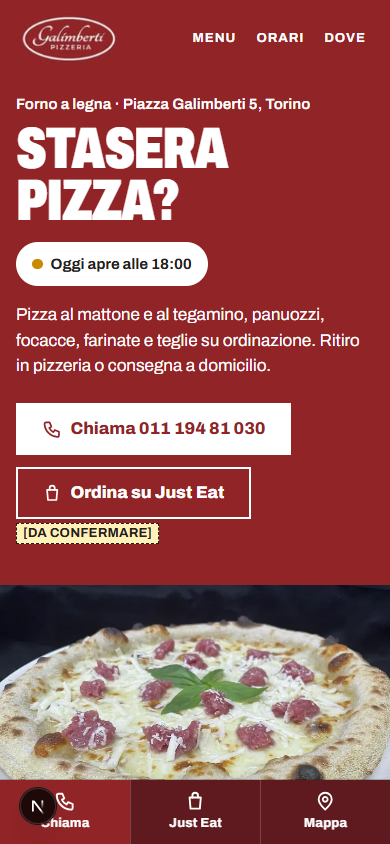
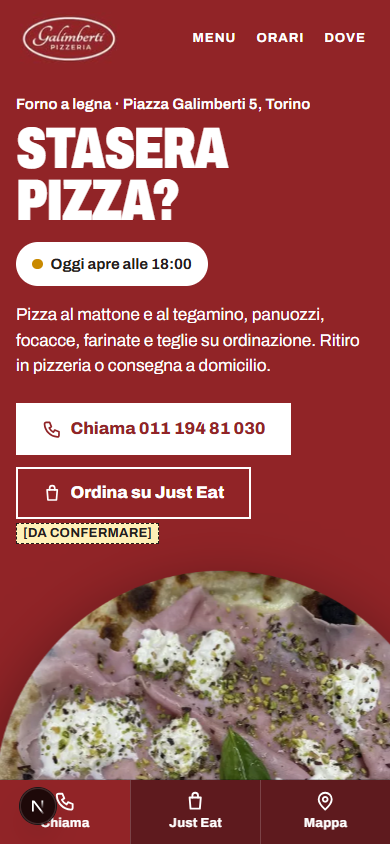
Effetto 'la pizza che gira' in apertura
La pizza vista dall'alto (pizza2.png ritagliata in cerchio) entra con mezzo
giro e ruota scorrendo. Rispetta prefers-reduced-motion. La foto del
cornicione passa alla scheda 'Le speciali'.

Changed region(s): [[0.0, 0.6777, 1.0, 0.9242]]

diff --git a/app/globals.css b/app/globals.css
@@ -335,14 +335,35 @@ a {
   gap: var(--s-1);
 }
 
-.foto-apertura {
-  margin-inline: calc(var(--gutter) * -1);
+/* La pizza che gira (components/pizza-che-gira.tsx). Da telefono spunta dal
+   fondo dell'apertura, tagliata dal bordo; da tablet sta a destra, fuori dal bordo. */
+.apertura {
+  overflow: hidden;
 }
-.foto-apertura img {
+.pizza-giro {
+  position: relative;
+  height: min(78vw, 24rem);
+  margin-inline: calc(var(--gutter) * -1);
+  margin-bottom: calc(var(--s-6) * -1);
+}
+.pizza-giro-disco {
+  position: absolute;
+  left: 50%;
+  top: 0;
+  width: min(118vw, 36rem);
+  translate: -44% 0;
+  animation: pizza-entra 1.3s cubic-bezier(0.2, 0.8, 0.2, 1) both;
+}
+.pizza-giro img {
   width: 100%;
-  aspect-ratio: 4 / 3;
-  object-fit: cover;
-  object-position: 50% 60%;
+  border-radius: 50%;
+  filter: drop-shadow(0 1.25rem 2rem rgba(0, 0, 0, 0.45));
+  will-change: transform;
+}
+@keyframes pizza-entra {
+  from {
+    transform: rotate(-160deg) scale(0.85);
+  }
 }
 
 /* --- Cosa facciamo ------------------------------------------------------ */
@@ -727,13 +748,17 @@ a {
 
   .apertura-griglia {
     grid-template-columns: 1.1fr 0.9fr;
-    align-items: end;
+    align-items: stretch;
   }
-  .foto-apertura {
+  .pizza-giro {
+    height: 100%;
+    min-height: 26rem;
     margin: 0;
   }
-  .foto-apertura img {
-    aspect-ratio: 4 / 5;
+  .pizza-giro-disco {
+    top: 50%;
+    width: min(42vw, 31rem);
+    translate: -40% -50%;
   }
 
   /* Il blocco del volantino al centro, come il pannello rosso di menu2.png. */
@@ -775,9 +800,6 @@ a {
   }
   .apertura {
     padding-bottom: var(--s-7);
-  }
-  .foto-apertura img {
-    max-height: 34rem;
   }
   .colonne-menu {
     columns: 3;

diff --git a/app/page.tsx b/app/page.tsx
@@ -1,6 +1,7 @@
 import { DaConfermare } from "@/components/da-confermare";
 import { IconaPosizione, IconaSacchetto, IconaTelefono } from "@/components/icone";
 import PastaCheSiStende from "@/components/pasta-che-si-stende";
+import PizzaCheGira from "@/components/pizza-che-gira";
 import SchedeMenu from "@/components/schede-menu";
 import StatoApertura from "@/components/stato-apertura";
 import {
@@ -122,15 +123,12 @@ export default async function Home() {
                 </span>
               </div>
             </div>
-            <figure className="foto-apertura">
-              <img
-                src={FOTO.cornicione.src}
-                width={FOTO.cornicione.w}
-                height={FOTO.cornicione.h}
-                alt={FOTO.cornicione.alt}
-                fetchPriority="high"
-              />
-            </figure>
+            <PizzaCheGira
+              src={FOTO.dallalto.src}
+              w={FOTO.dallalto.w}
+              h={FOTO.dallalto.h}
+              alt={FOTO.dallalto.alt}
+            />
           </div>
         </section>
 
@@ -204,10 +202,10 @@ export default async function Home() {
 
               <article className="scheda">
                 <img
-                  src={FOTO.mortadella.src}
-                  width={FOTO.mortadella.w}
-                  height={FOTO.mortadella.h}
-                  alt={FOTO.mortadella.alt}
+                  src={FOTO.cornicione.src}
+                  width={FOTO.cornicione.w}
+                  height={FOTO.cornicione.h}
+                  alt={FOTO.cornicione.alt}
                   loading="lazy"
                   decoding="async"
                 />

diff --git a/components/pizza-che-gira.tsx b/components/pizza-che-gira.tsx
@@ -1,0 +1,62 @@
+"use client";
+
+import { useEffect, useRef } from "react";
+
+/**
+ * "La pizza che gira": la pizza vista dall'alto (pizza2.png, ritagliata in
+ * cerchio) entra con mezzo giro e poi ruota mentre si scorre, come sulla
+ * pala davanti al forno.
+ *
+ * Con "riduci movimento" sta ferma. Senza JavaScript sta ferma e basta.
+ */
+
+/** Gradi di rotazione per ogni pixel scorso. */
+const GRADI_PER_PIXEL = 0.12;
+
+export default function PizzaCheGira({
+  src,
+  w,
+  h,
+  alt,
+}: {
+  src: string;
+  w: number;
+  h: number;
+  alt: string;
+}) {
+  const immagine = useRef<HTMLImageElement>(null);
+
+  useEffect(() => {
+    const img = immagine.current;
+    if (!img) return;
+    const fermo = window.matchMedia("(prefers-reduced-motion: reduce)");
+
+    let frame = 0;
+    const ruota = () => {
+      img.style.transform = fermo.matches
+        ? ""
+        : `rotate(${(window.scrollY * GRADI_PER_PIXEL).toFixed(2)}deg)`;
+    };
+    const alloScorrere = () => {
+      cancelAnimationFrame(frame);
+      frame = requestAnimationFrame(ruota);
+    };
+
+    ruota();
+    window.addEventListener("scroll", alloScorrere, { passive: true });
+    fermo.addEventListener("change", ruota);
+    return () => {
+      cancelAnimationFrame(frame);
+      window.removeEventListener("scroll", alloScorrere);
+      fermo.removeEventListener("change", ruota);
+    };
+  }, []);
+
+  return (
+    <div className="pizza-giro">
+      <div className="pizza-giro-disco">
+        <img ref={immagine} src={src} width={w} height={h} alt={alt} fetchPriority="high" />
+      </div>
+    </div>
+  );
+}

diff --git a/lib/sito.ts b/lib/sito.ts
@@ -74,6 +74,13 @@ export const FOTO = {
     h: 767,
     alt: "Pizza con mortadella, burrata e granella di pistacchio nel cartone da asporto",
   },
+  // pizza2.png ritagliata in cerchio (la pizza vista dall'alto), per l'apertura.
+  dallalto: {
+    src: "/img/pizza-dallalto.webp",
+    w: 680,
+    h: 680,
+    alt: "Pizza vista dall'alto con mortadella, burrata e granella di pistacchio",
+  },
   tegamino: {
     src: "/img/tegamino.webp",
     w: 676,

diff --git a/docs/VERIFICA.md b/docs/VERIFICA.md
@@ -29,7 +29,7 @@ piccolo (134 px di larghezza originale).
 | Instagram | 390 | Link di testo alto meno di 44 px | Difficile da toccare | Corretto |
 | Testo "Le speciali" | tutte | "12 pizze fuori dal solito" | Frase da brochure | Ora: "12 pizze speciali, per esempio: …" |
 | Pagina 404 | tutte | Testo di Next in inglese | Fuori lingua | Corretto |
-| Prima schermata | 768 | La foto della pizza è piccola e ritagliata in verticale, il cornicione si perde | Estetica, non uso | **Non corretto**, da rivedere con foto migliori |
+| Prima schermata | 768 | La foto della pizza è piccola e ritagliata in verticale, il cornicione si perde | Estetica, non uso | Superato: ora c'è "la pizza che gira" |
 | Elenco del volantino | 1280 | Colonna stretta a sinistra, due terzi vuoti a destra | Spazio sprecato | Corretto il 28/10 con l'effetto "pasta che si stende": blocco giustificato centrato |
 | Logo | tutte | Il file è 134×68 px: a 2x (telefoni) è sfocato | Prima cosa che si vede | **Non correggibile** senza il file originale: va chiesto al locale |
 | Bibite | 390 | Cinque [DA CONFERMARE] di fila rendono la lista pesante | Ma sono dubbi veri sul volantino | Lasciato: si tolgono quando il titolare conferma |
@@ -71,3 +71,12 @@ a fine corsa ogni riga misura quanto il contenitore (356-357 px su 358 a 390 px)
 scorrimento orizzontale, nessun errore in console. Con "riduci movimento" le righe sono subito
 stese, senza animazione. Senza JavaScript resta l'elenco statico di prima. Costo: nessuna
 immagine né libreria, solo l'asse di larghezza del font già caricato.
+
+## Effetto "la pizza che gira" (aggiunto su richiesta dell'utente)
+In apertura, la pizza vista dall'alto (`pizza2.png`, ritagliata in cerchio, WebP con
+trasparenza, 79 KB) entra con mezzo giro e poi ruota mentre si scorre (0,12° per pixel). Da
+telefono spunta dal fondo dell'apertura, tagliata dal bordo; da 768 px sta a destra. Provato
+con Playwright a 390, 768 e 1280 px (`strumenti/prova-giro.js`): nessuno scorrimento
+orizzontale, nessun errore; con "riduci movimento" niente entrata e niente rotazione.
+Limite vero: la foto originale è 683 px, quindi sui telefoni ad alta densità la pizza è un po'
+morbida. Con una foto dall'alto più grande (almeno 1600 px) l'effetto rende molto di più.

diff --git a/DECISIONI.md b/DECISIONI.md
@@ -120,3 +120,11 @@ impaginazione), parla di pasta e forno senza illustrazioni inventate, funziona a
 (non dipende dall'apertura) e pesa zero (asse di larghezza del font Archivo, già caricato).
 Scartata un'insegna al neon "APERTO" che si accende alle 18: d'effetto, ma in una demo fatta di
 giorno si vedrebbe spenta, e il neon non è nell'identità del locale.
+
+## 7. Secondo effetto: "la pizza che gira" (richiesta dell'utente, 28/10/2026)
+L'utente voleva anche un effetto con un'immagine. Su un sito di cibo la gente guarda il cibo:
+l'effetto deve muovere la pizza vera, non decorazioni. `pizza2.png` è l'unica pizza intera
+vista dall'alto, quindi ritagliata in cerchio sta in piedi da sola sul rosso e può ruotare come
+sulla pala. Diventa l'immagine d'apertura; `pizza.png` (cornicione) passa alla scheda "Le
+speciali" per non avere la stessa foto due volte. Che la pizza in foto sia "La Mortadella" del
+menu resta una mia deduzione: il testo alternativo descrive solo gli ingredienti visibili.
